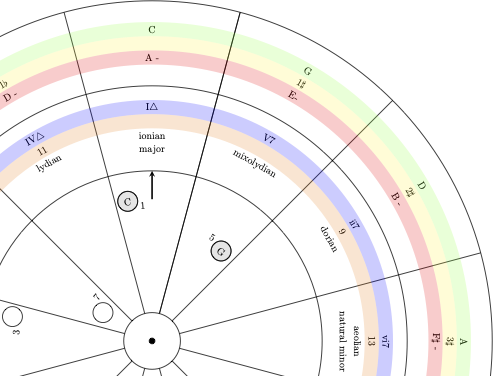
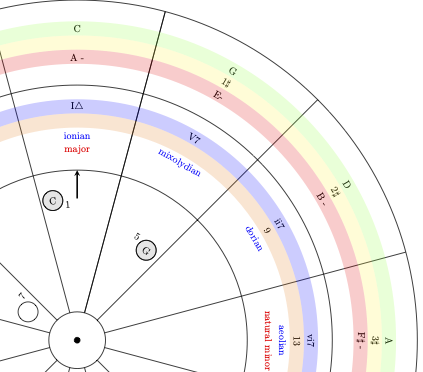
much more images

diff --git a/README.md b/README.md
@@ -24,17 +24,19 @@ You can try to join the three pieces in the center with a [split pin](https://en
 
 ## Description
 
-The upper ring on the base plate shows the root note of the scales in the circle of fifths, below this note is the number of &flat; or &sharp; in that scale and below that the parallel minor root note (e.g. A- is the parallel minor of C).
+![description](description.png)
 
-The middle ring shows the seven degrees (scale step) in a scale from **I&xutri;** to **vii&oslash;**. These consist of a roman number and a **&xutri;**, a **7** or a **&oslash;**. An upper roman number indicates a major chord (major third) and a lower roman number a minor chord (minor third). The **&xutri;** indicates a major seventh chord, the **7** a minor seventh chord and the **&oslash;** a half-diminished seventh chord (minor third, diminished fifth and minor seventh). Below the modes in some cases the odd note numbers above the octave are shown: the 9th, 11th and 13th as they are often used as extensions of a chord. Below that the names of the modes corresponding with the degree from **ionian** to **locrian**. Below the **ionian** and **aeolian** it shows the common names **major** and **natural minor**.
+The upper ring on the base plate shows the root note of the major scales **`[green ring]`** in the circle of fifths, below this note is the number of &flat; or &sharp; in that scale **`[yellow ring]`** and below that the parallel minor root note **`[red ring]`** (e.g. A- is the parallel minor of C).
+
+The middle ring shows the seven degrees (scale step) in a scale from **I&xutri;** to **vii&oslash;** **`[blue ring]`**. These consist of a roman number and a **&xutri;**, a **7** or a **&oslash;**. An upper roman number indicates a major chord (major third) and a lower roman number a minor chord (minor third). The **&xutri;** indicates a major seventh chord, the **7** a minor seventh chord and the **&oslash;** a half-diminished seventh chord (minor third, diminished fifth and minor seventh). Below the modes in some cases the odd note numbers above the octave are shown: the 9th, 11th and 13th as they are often used as extensions of a chord **`[orange ring]`**. Below that the names of the modes corresponding with the degree from **ionian** to **locrian** **`[blue text]`**. Below the **ionian** and **aeolian** it shows the common names **major** and **natural minor** **`[red text]`**.
 
 The inner disc show the notes in a chord in the holes on the disc together with their note numbers. The chord is selected with the arrow on the disc (see [Usage](#usage) for more information).
 
 ## Usage
 
-1. Turn the middle ring (the degrees) with the **I&xutri;** (*ionian*) pointing to the root note of your major scale in the upper ring (closest to the edge, in the example above pointing to C). For the minor scale point the  **vi7** (*aeolian*) to the root note of your minor scale in the upper ring (again closest the edge, in the example above pointing to A).
-1. Rotate the arrow on the inner disc to point to the desired chord (=degree) on the middle ring.
-1. On the inner disc you find the notes of that chord in the selected scale. Note that for the seventh degree **vii&oslash;** you will need to add the upper note indicted in the slice with "add to vii&oslash; (5)".
+1. Turn the middle ring (the degrees) with the **I&xutri;** (*ionian*) pointing to the root note of your major scale in the upper ring (closest to the edge, in the example above pointing to C) ![find major root](step_1_major.png). For the minor scale point the  **vi7** (*aeolian*) to the root note of your minor scale in the upper ring (again closest the edge, in the example above pointing to A) ![find minor root](step_1_minor.png).
+1. Rotate the arrow on the inner disc to point to the desired chord (=degree) on the middle ring ![find chord](step_2.png).
+1. On the inner disc you find the notes of that chord in the selected scale ![find notes](step_3.png). Note that for the seventh degree **vii&oslash;** you will need to add the upper note indicted in the slice with "add to vii&oslash; (5)".
 
 ### Find the scale
 
